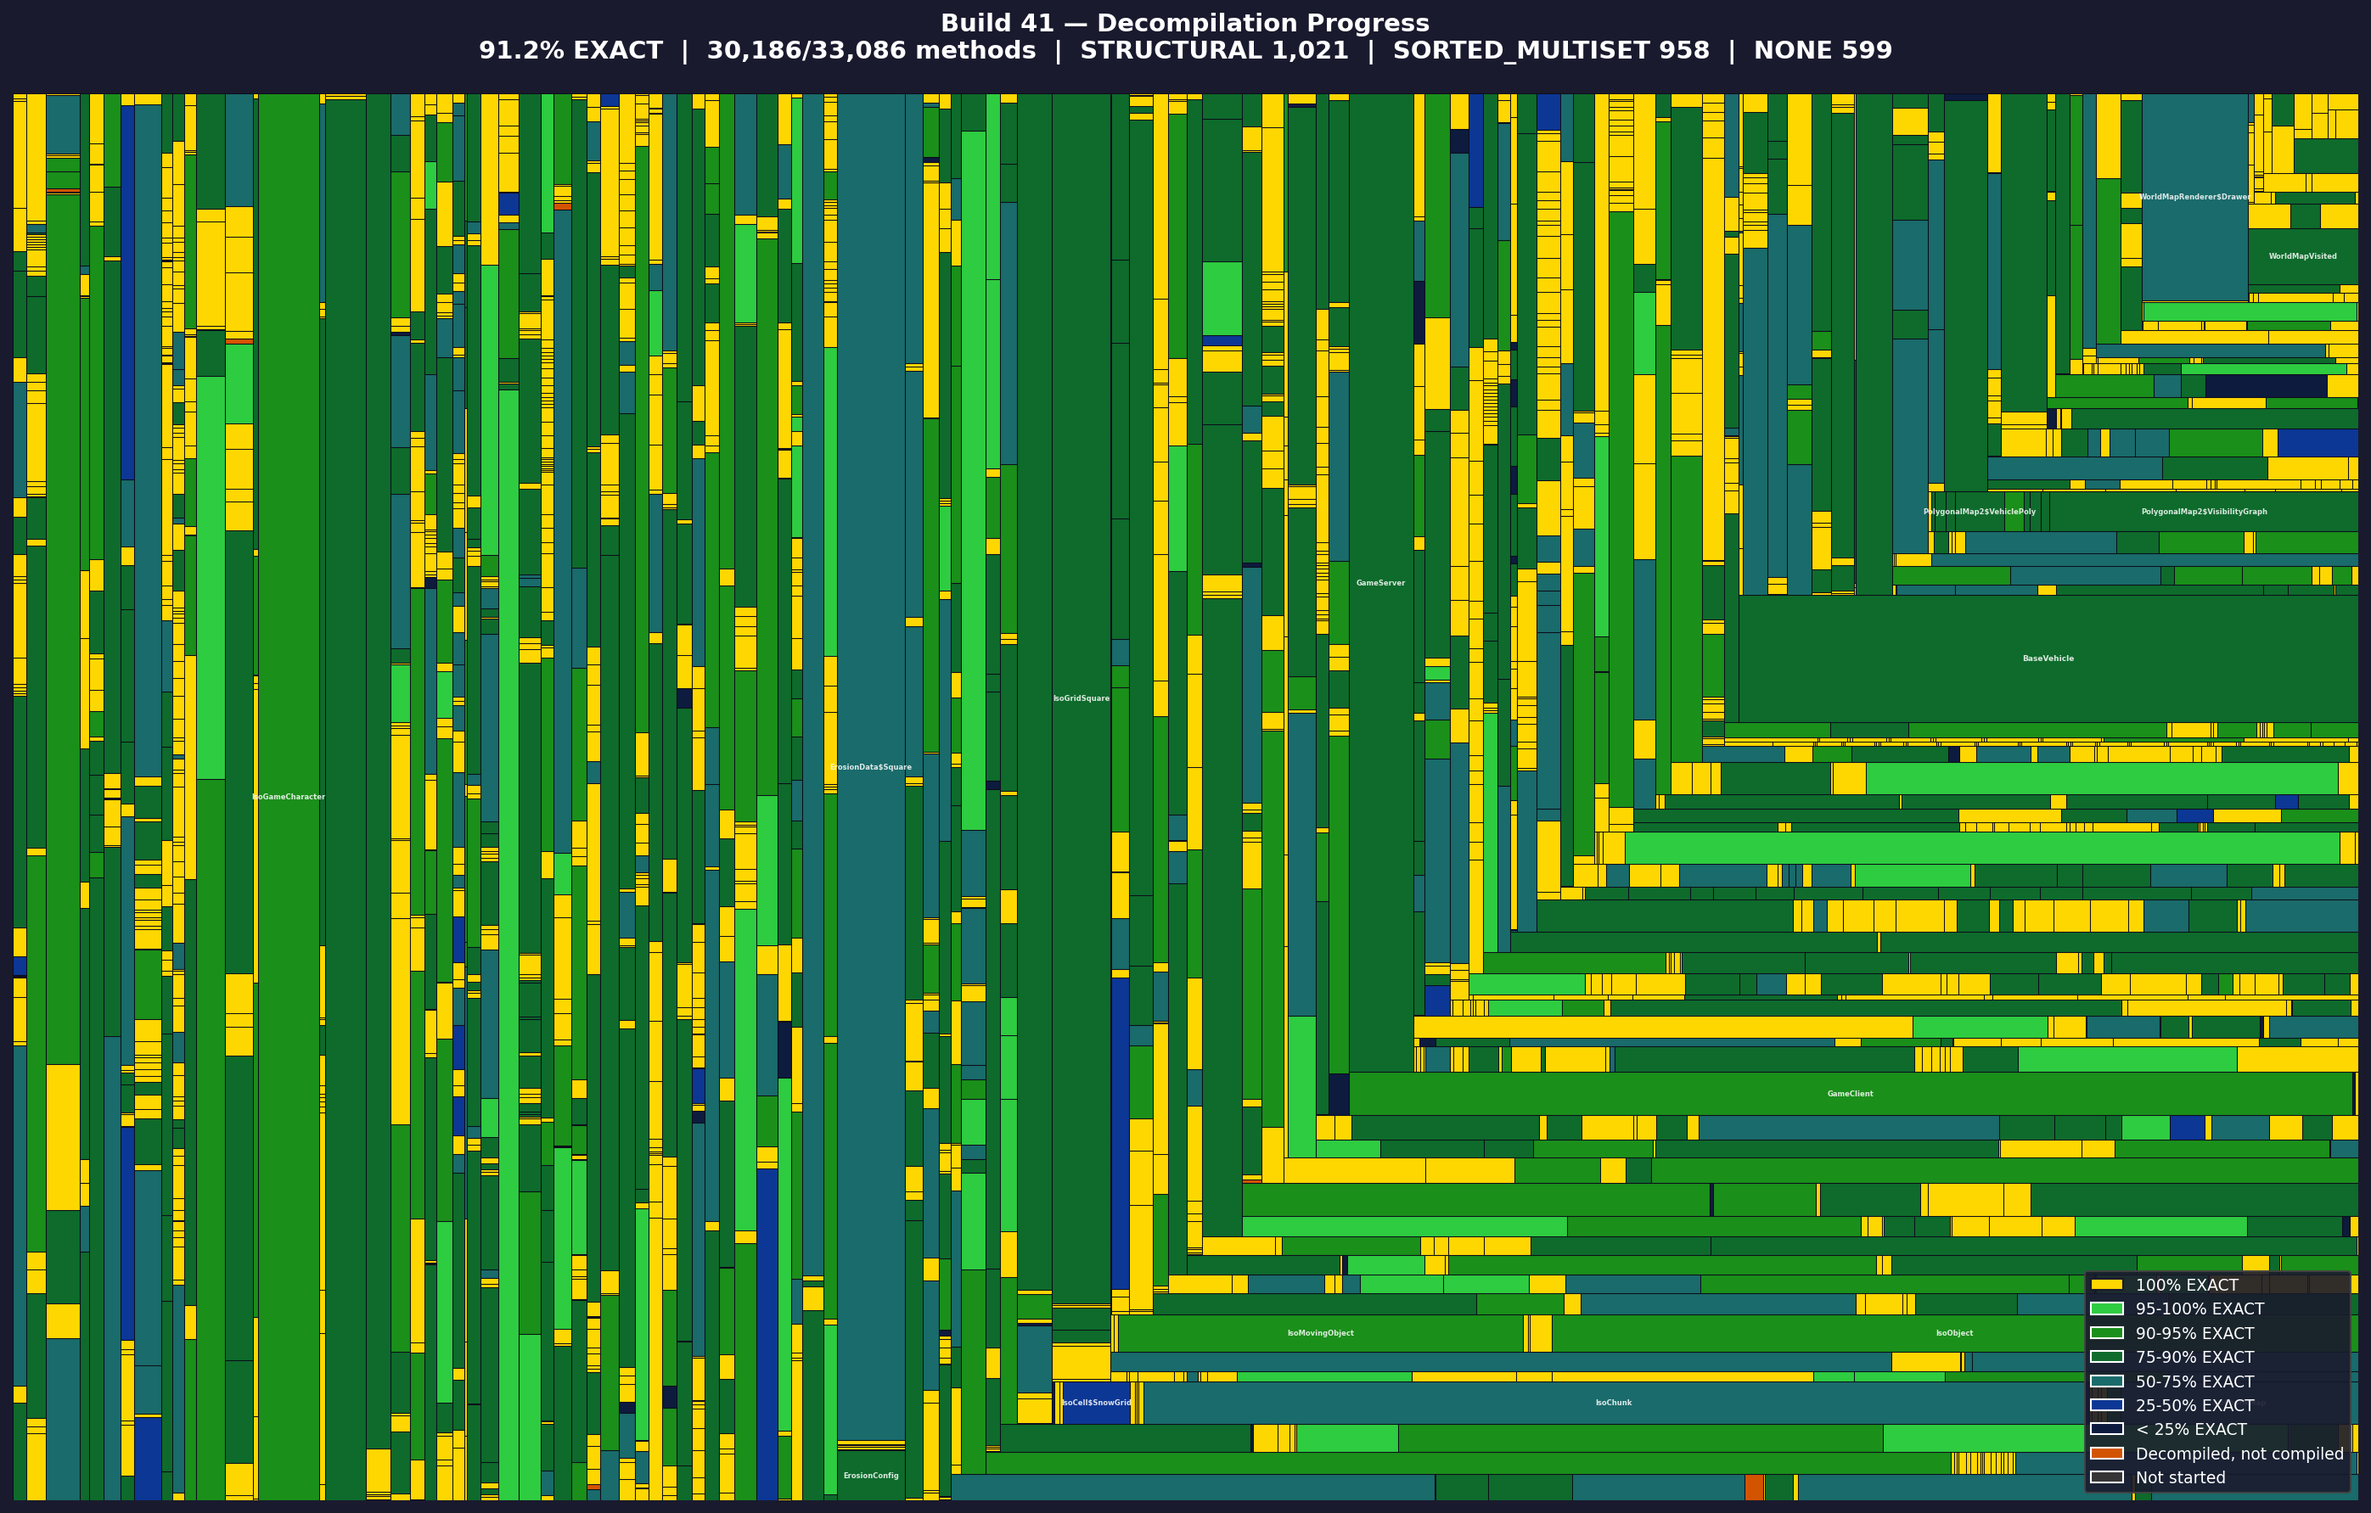
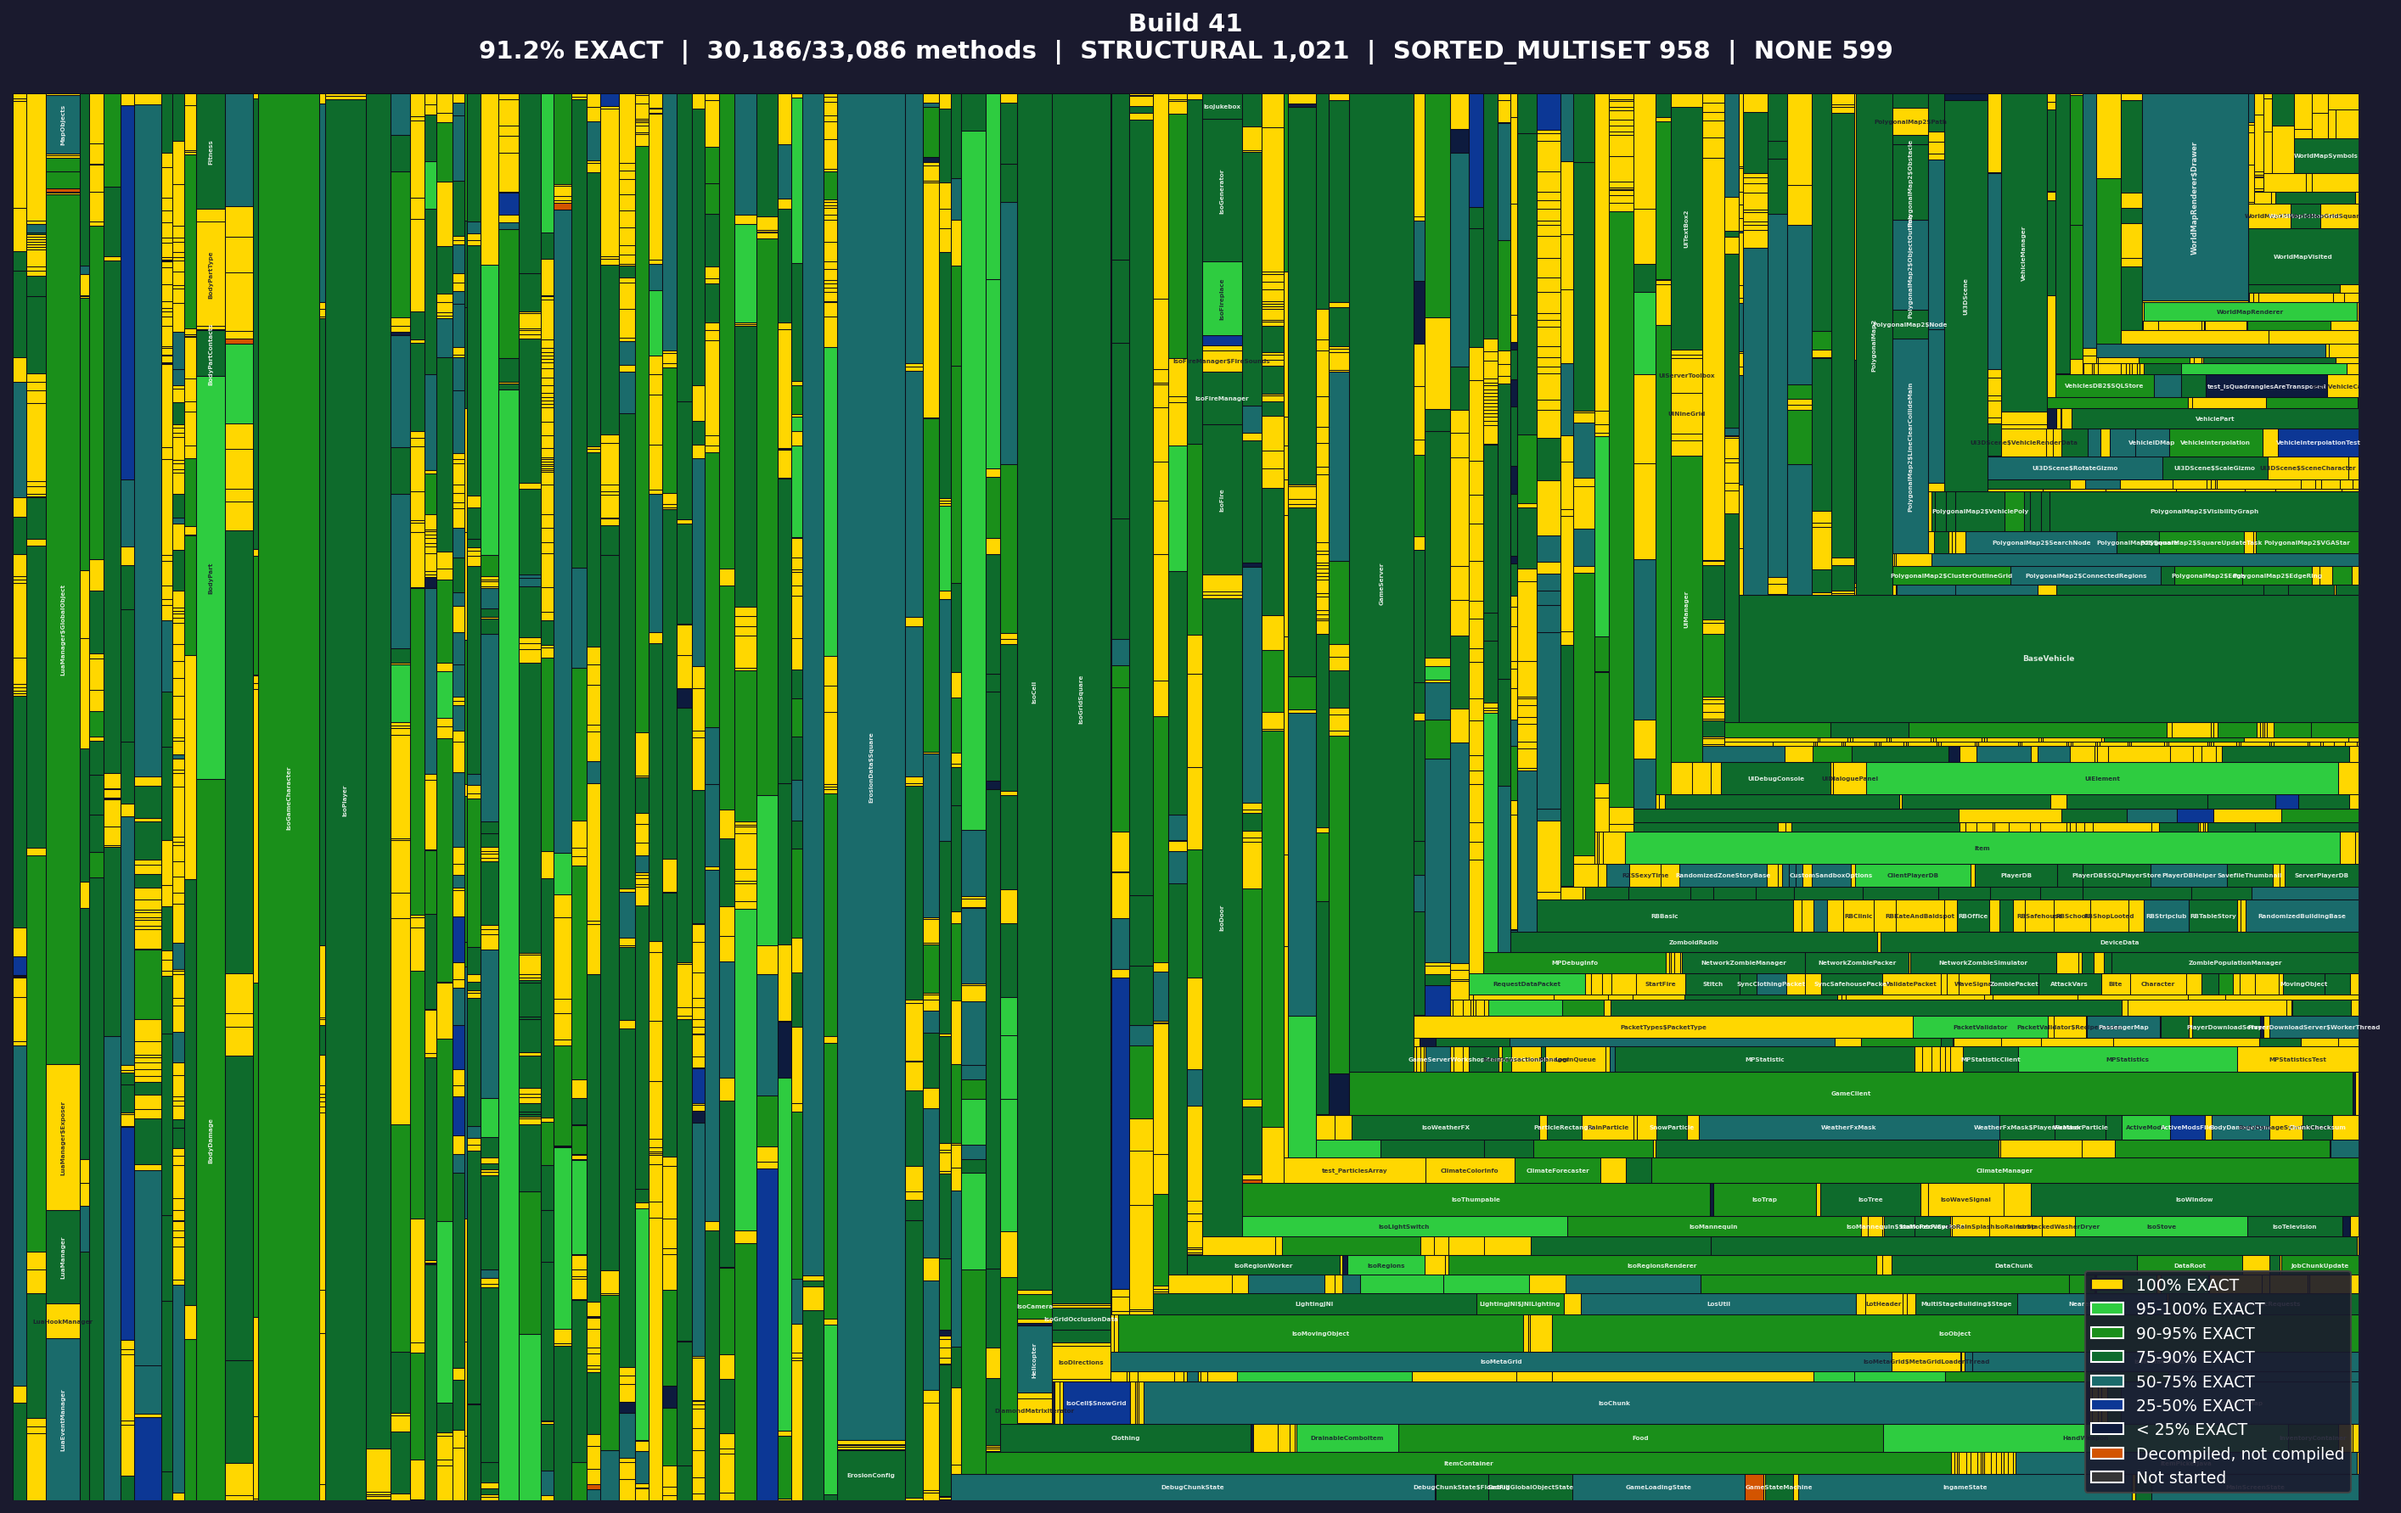
fix: use vertical text labels for tall/narrow treemap rectangles

diff --git a/scripts/generate_progress_image.py b/scripts/generate_progress_image.py
@@ -124,9 +124,18 @@ def main():
             edgecolor="#0d0d1a",
             linewidth=0.5,
         ))
-        if dx > 2 and dy > 1.5:
-            fontsize = min(8, max(4, min(dx, dy) * 0.8))
+        # Pick orientation based on rectangle aspect ratio
+        # Tall/narrow rectangles get vertical text, wide ones get horizontal
+        if dx >= 1.2 and dy >= 0.8:
             text_color = "#1a1a2e" if color in ("#FFD700", "#2ecc40") else "white"
+            if dy > dx * 1.5:
+                # Tall rectangle - vertical text fits better
+                fontsize = min(8, max(3.5, dx * 0.9))
+                rotation = 90
+            else:
+                # Wide or square rectangle - horizontal text
+                fontsize = min(8, max(3.5, min(dx, dy) * 0.8))
+                rotation = 0
             ax.text(
                 x + dx / 2, y + dy / 2,
                 label,
@@ -135,6 +144,7 @@ def main():
                 fontsize=fontsize,
                 fontweight="bold",
                 alpha=0.85,
+                rotation=rotation,
             )
 
     ax.set_xlim(0, 100)
